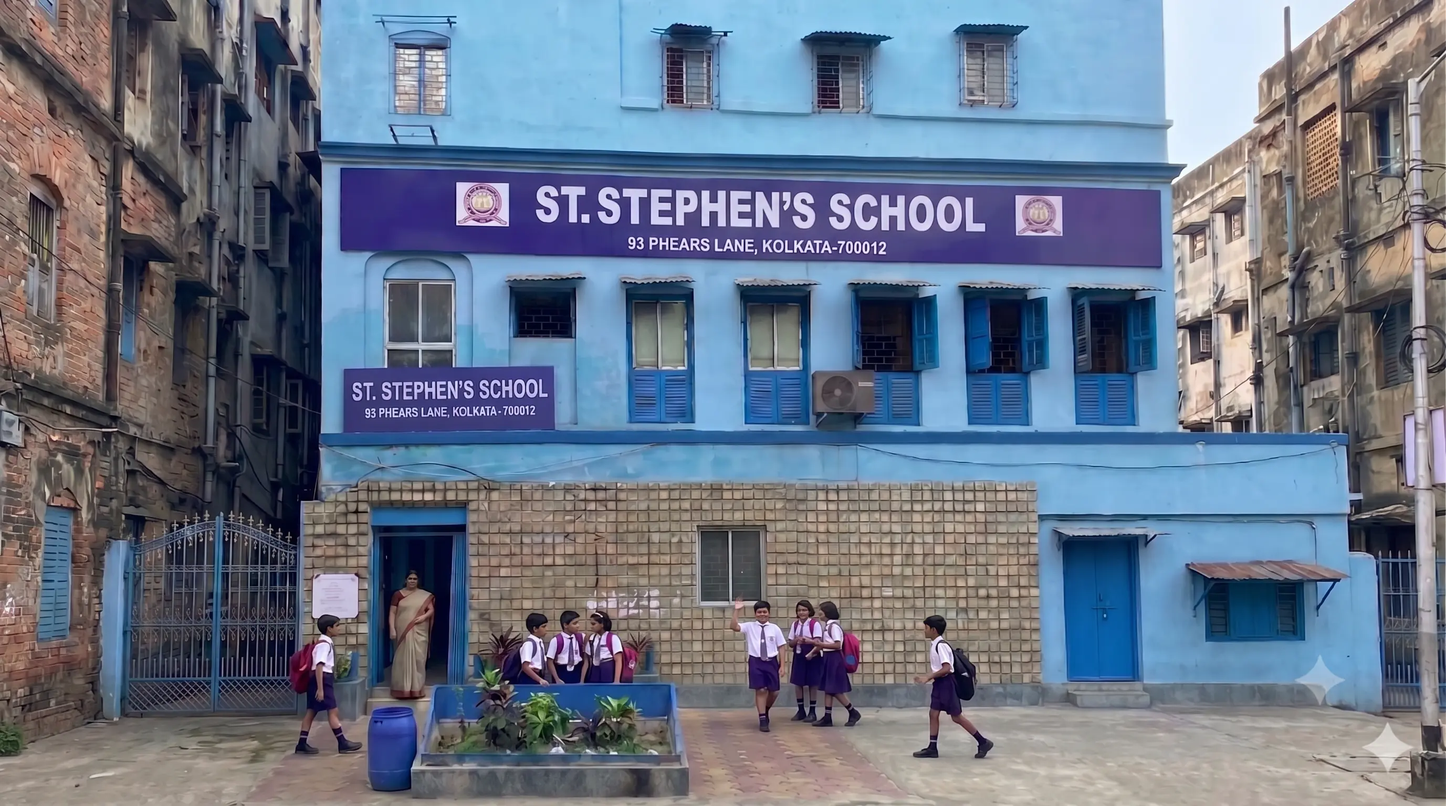
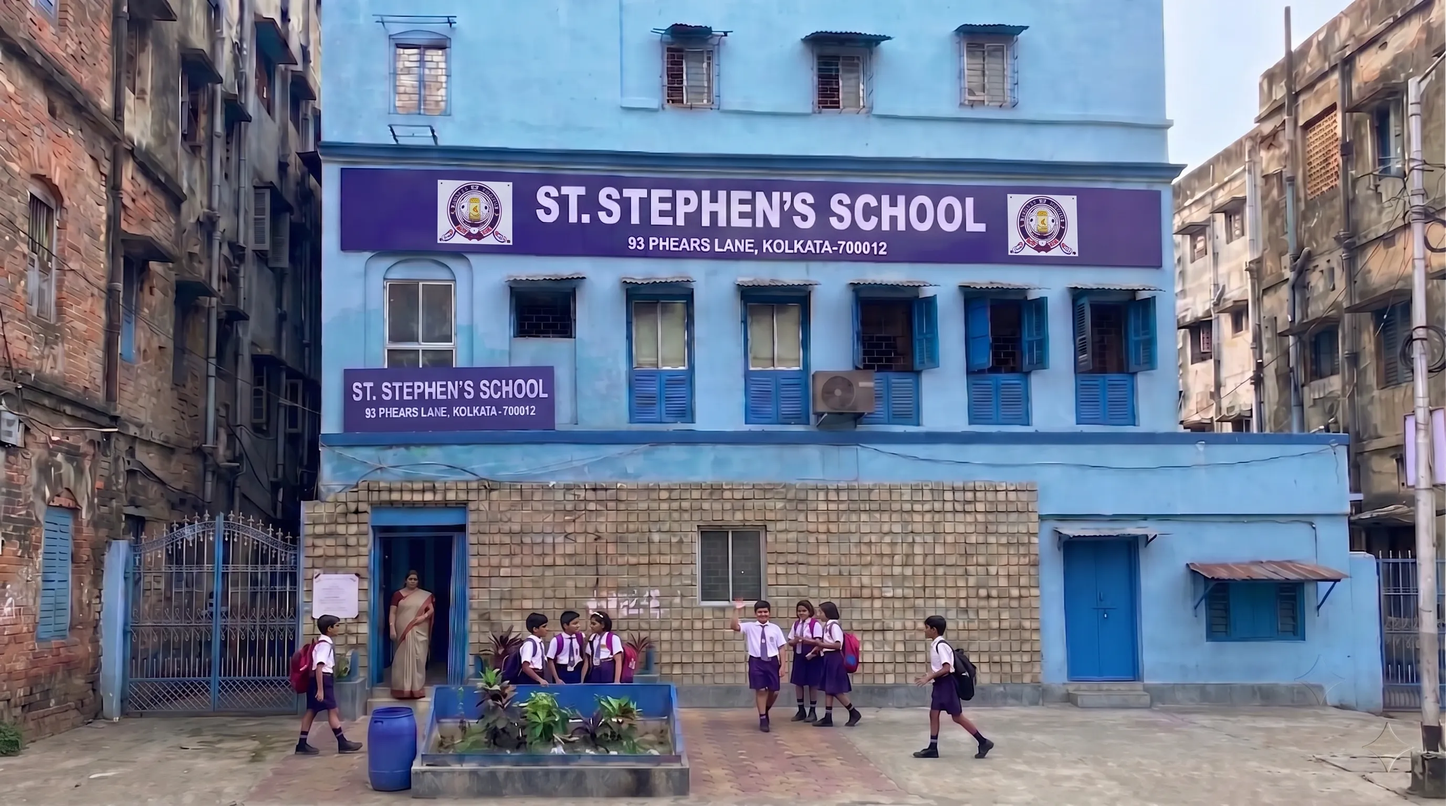
fix image and content

diff --git a/src/donate.tsx b/src/donate.tsx
@@ -134,7 +134,7 @@ export default function Donate() {
                   <div className="contact-details-list">
                     {[
                       { name: 'Imran Zaki', phone: '+91 98310 19298', id: 'imran' },
-                      { name: 'Mushy Mushtaq', phone: '+91 90386 06389', id: 'mushy' },
+                      { name: 'Md Mustaque', phone: '+91 90386 06389', id: 'mushy' },
                     ].map((contact) => (
                       <div className="contact-detail-item" key={contact.id}>
                         <div className="contact-info">
